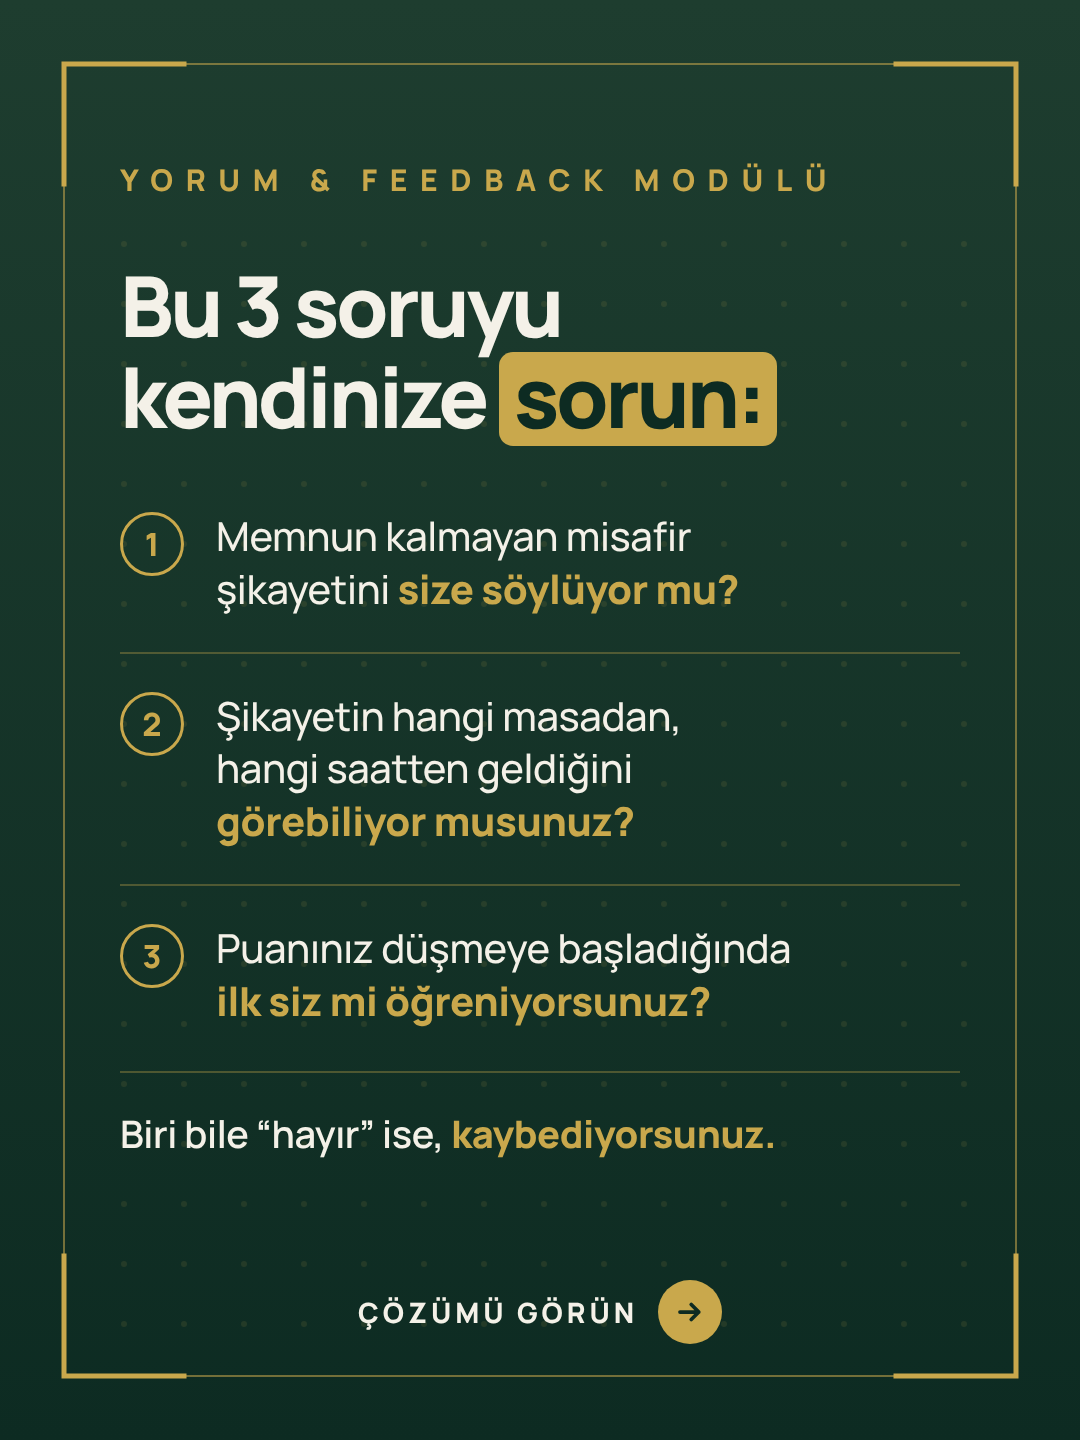
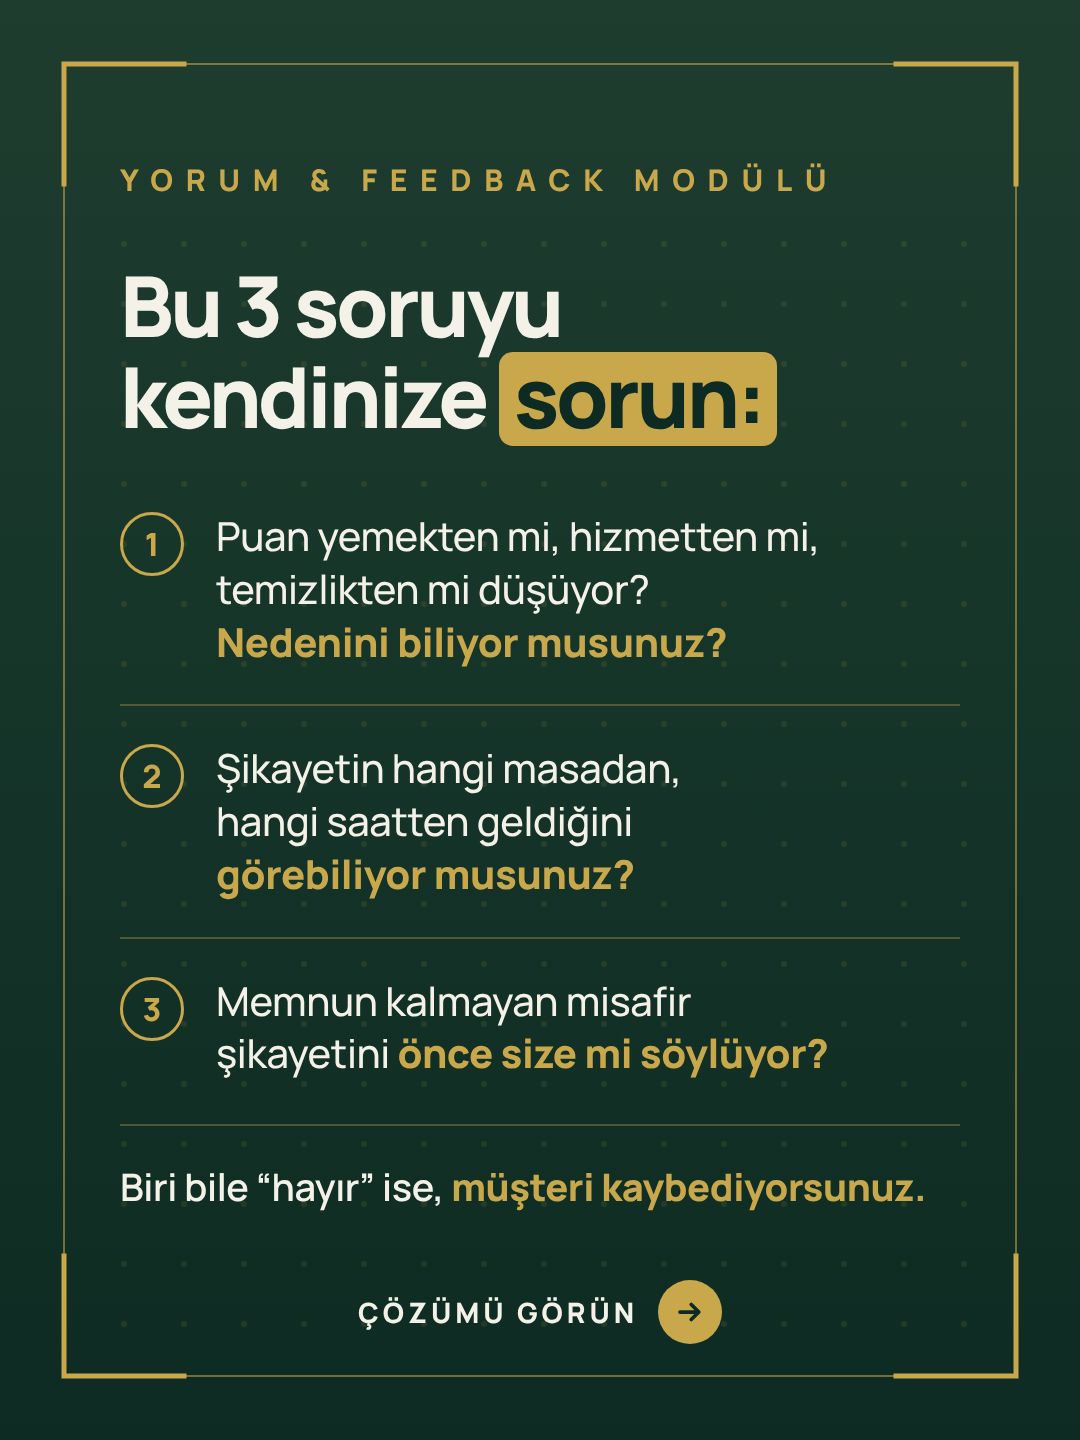
Yorum & Feedback carousel slayt 2: kapakla uyumlu 3 acı sorusu
Claude-Session: https://claude.ai/code/session_01FBw9rVwrniVjyFvtgVdFXq

Changed region(s): [[0.0917, 0.3438, 0.7639, 0.75], [0.0917, 0.7812, 0.8556, 0.8438]]

diff --git a/tools/ig-carousel/yorum-feedback.html b/tools/ig-carousel/yorum-feedback.html
@@ -182,11 +182,11 @@ const SL={
 2:{bg:'krem',html:()=>LAB.replace('LCLS','left')+`
  <div class="area top" style="top:236px;bottom:240px"><div class="h" id="H" data-max="84" data-min="68">${L(['Bu 3 soruyu','kendinize [[sorun:]]'])}</div>
  <div class="qs">
-  <div class="q"><div class="n">1</div><div class="t">${B(`Memnun kalmayan misafir<br>şikayetini {{size söylüyor mu?}}`)}</div></div>
+  <div class="q"><div class="n">1</div><div class="t">${B(`Puan yemekten mi, hizmetten mi,<br>temizlikten mi düşüyor?<br>{{Nedenini biliyor musunuz?}}`)}</div></div>
   <div class="q"><div class="n">2</div><div class="t">${B(`Şikayetin hangi masadan,<br>hangi saatten geldiğini<br>{{görebiliyor musunuz?}}`)}</div></div>
-  <div class="q"><div class="n">3</div><div class="t">${B(`Puanınız düşmeye başladığında<br>{{ilk siz mi öğreniyorsunuz?}}`)}</div></div>
+  <div class="q"><div class="n">3</div><div class="t">${B(`Memnun kalmayan misafir<br>şikayetini {{önce size mi söylüyor?}}`)}</div></div>
  </div>
- <div class="tail">Biri bile “hayır” ise, <b>kaybediyorsunuz.</b></div>
+ <div class="tail">Biri bile “hayır” ise, <b>müşteri kaybediyorsunuz.</b></div>
  </div>${nx('Çözümü görün','#F4F1E8')}`},
 3:{bg:'krem',html:()=>LAB.replace('LCLS','left')+`
  <div class="area top" style="top:270px;bottom:240px">
